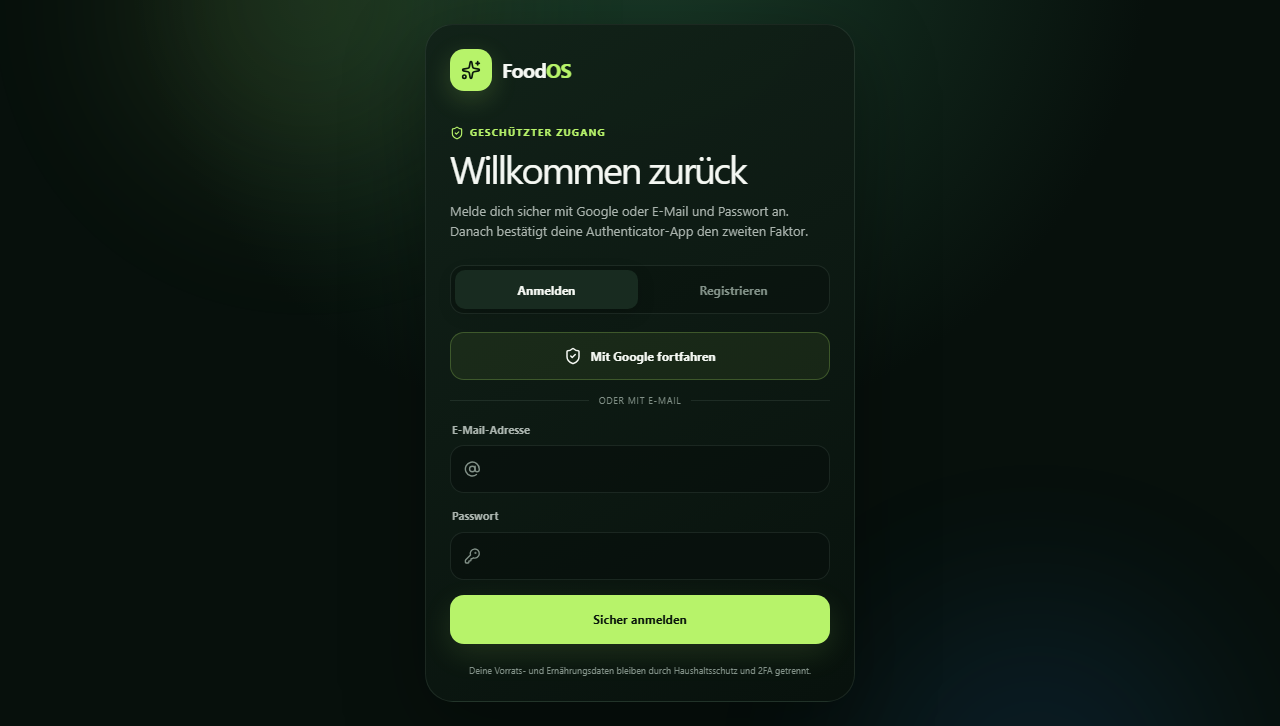
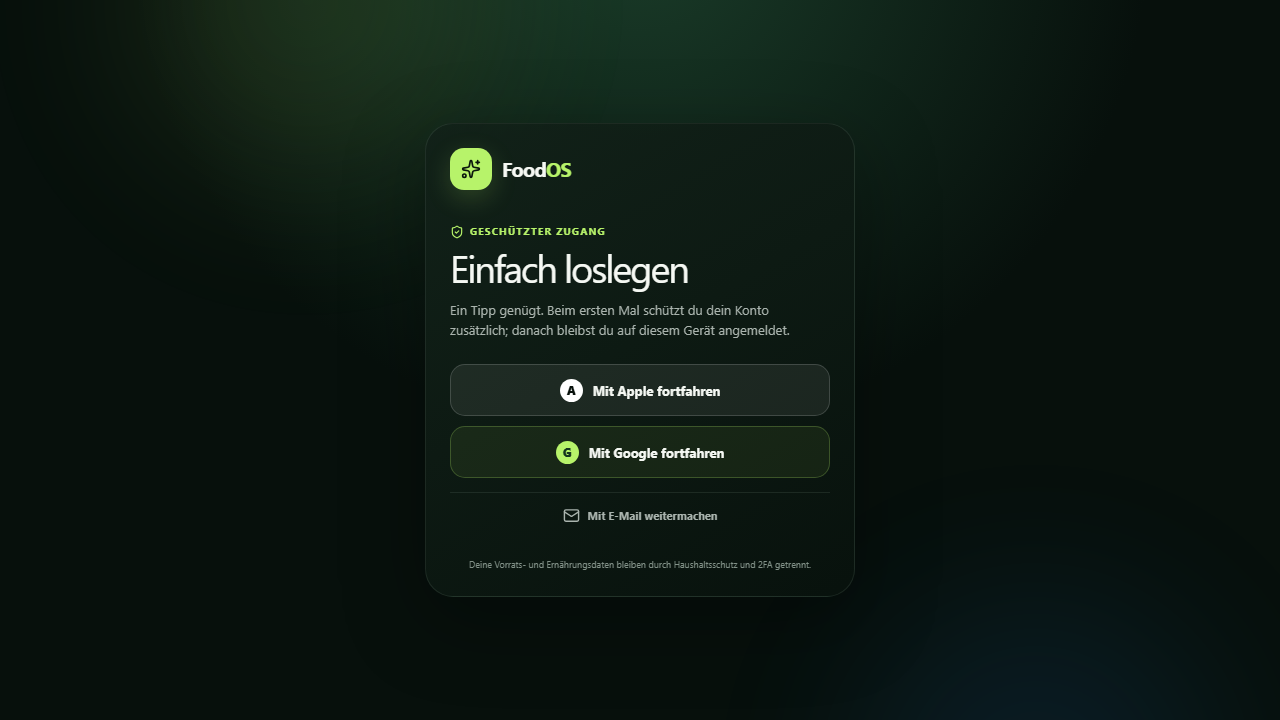
feat: simplify cross-device sign in

diff --git a/src/features/auth/sign-in-screen.tsx b/src/features/auth/sign-in-screen.tsx
@@ -1,7 +1,7 @@
 "use client";
 
 import { useState, type FormEvent } from "react";
-import { AtSign, KeyRound, LoaderCircle, ShieldCheck } from "lucide-react";
+import { AtSign, KeyRound, LoaderCircle, Mail, Play } from "lucide-react";
 import { useRouter } from "next/navigation";
 import { z } from "zod";
 import { oauthCallbackUrl } from "@/domain/auth-redirect";
@@ -14,16 +14,28 @@ const credentialsSchema = z.object({
 });
 
 type Mode = "login" | "register";
+type OAuthProvider = "apple" | "google";
 
 const authErrorMessages: Record<string, string> = {
   oauth: "Die Anmeldung beim Identitätsanbieter wurde abgebrochen oder abgelehnt. Versuche es erneut.",
   confirmation: "Der Anmeldelink ist ungültig oder abgelaufen. Starte die Anmeldung erneut."
 };
 
-export function SignInScreen({ authError, googleEnabled = false }: { authError?: string; googleEnabled?: boolean }) {
+export function SignInScreen({
+  authError,
+  appleEnabled = false,
+  demoEnabled = false,
+  googleEnabled = false
+}: {
+  authError?: string;
+  appleEnabled?: boolean;
+  demoEnabled?: boolean;
+  googleEnabled?: boolean;
+}) {
   const router = useRouter();
   const [mode, setMode] = useState<Mode>("login");
   const [busy, setBusy] = useState(false);
+  const [activeProvider, setActiveProvider] = useState<OAuthProvider | null>(null);
   const [error, setError] = useState<string | null>(authError ? authErrorMessages[authError] ?? "Die Anmeldung konnte nicht bestätigt werden." : null);
   const [notice, setNotice] = useState<string | null>(null);
 
@@ -64,56 +76,82 @@ export function SignInScreen({ authError, googleEnabled = false }: { authError?:
     router.refresh();
   }
 
-  async function signInWithGoogle() {
+  async function signInWithProvider(provider: OAuthProvider) {
     setBusy(true);
+    setActiveProvider(provider);
     setError(null);
     setNotice(null);
     const result = await getSupabaseBrowserClient().auth.signInWithOAuth({
-      provider: "google",
+      provider,
       options: {
         redirectTo: oauthCallbackUrl(window.location.origin),
-        scopes: "openid email profile"
+        scopes: provider === "google" ? "openid email profile" : "name email"
       }
     });
     if (result.error) {
       setBusy(false);
-      setError("Google-Anmeldung konnte nicht gestartet werden. Prüfe die Provider-Konfiguration oder verwende E-Mail und Passwort.");
+      setActiveProvider(null);
+      setError("Die schnelle Anmeldung konnte nicht gestartet werden. Versuche es erneut oder nutze E-Mail.");
     }
   }
+
+  const socialLoginEnabled = appleEnabled || googleEnabled;
+  const showDemoEntry = demoEnabled && !socialLoginEnabled;
+  const hasSimpleEntry = socialLoginEnabled || showDemoEntry;
 
   return (
     <AuthFrame
       eyebrow="Geschützter Zugang"
-      title={mode === "login" ? "Willkommen zurück" : "FoodOS einrichten"}
-      description="Melde dich sicher mit Google oder E-Mail und Passwort an. Danach bestätigt deine Authenticator-App den zweiten Faktor."
+      title="Einfach loslegen"
+      description={showDemoEntry
+        ? "Öffne die lokale Demo mit einem Tipp. Für ein persönliches Konto kannst du jederzeit E-Mail verwenden."
+        : "Ein Tipp genügt. Beim ersten Mal schützt du dein Konto zusätzlich; danach bleibst du auf diesem Gerät angemeldet."}
     >
-      <div className="auth-tabs" role="tablist" aria-label="Anmeldemodus">
-        <button role="tab" aria-selected={mode === "login"} onClick={() => setMode("login")}>Anmelden</button>
-        <button role="tab" aria-selected={mode === "register"} onClick={() => setMode("register")}>Registrieren</button>
+      <div className="oauth-stack" aria-label="Schnelle Anmeldung">
+        {showDemoEntry && (
+          <button className="oauth-button demo" type="button" onClick={() => router.push("/?demo=1")}>
+            <Play size={18} aria-hidden="true" /> FoodOS ausprobieren
+          </button>
+        )}
+        {appleEnabled && (
+          <button className="oauth-button apple" type="button" onClick={() => void signInWithProvider("apple")} disabled={busy}>
+            <span className="provider-mark" aria-hidden="true">A</span>
+            {activeProvider === "apple" ? "Apple wird geöffnet …" : "Mit Apple fortfahren"}
+          </button>
+        )}
+        {googleEnabled && (
+          <button className="oauth-button google" type="button" onClick={() => void signInWithProvider("google")} disabled={busy}>
+            <span className="provider-mark" aria-hidden="true">G</span>
+            {activeProvider === "google" ? "Google wird geöffnet …" : "Mit Google fortfahren"}
+          </button>
+        )}
       </div>
-      {googleEnabled && <>
-        <button className="oauth-button" type="button" onClick={() => void signInWithGoogle()} disabled={busy}>
-          <ShieldCheck size={18} /> Mit Google fortfahren
-        </button>
-        <div className="auth-divider"><span>oder mit E-Mail</span></div>
-      </>}
-      <form className="auth-form" onSubmit={submit}>
-        <label>
-          <span>E-Mail-Adresse</span>
-          <div><AtSign size={18} /><input name="email" type="email" autoComplete="email" inputMode="email" required /></div>
-        </label>
-        <label>
-          <span>Passwort</span>
-          <div><KeyRound size={18} /><input name="password" type="password" autoComplete={mode === "login" ? "current-password" : "new-password"} minLength={10} required /></div>
-          {mode === "register" && <small>Mindestens 10 Zeichen. Verwende ein einzigartiges Passwort.</small>}
-        </label>
-        {error && <p className="auth-message error" role="alert">{error}</p>}
-        {notice && <p className="auth-message success" role="status">{notice}</p>}
-        <button className="primary-button wide" disabled={busy}>
-          {busy && <LoaderCircle className="spin" size={17} />}
-          {busy ? "Bitte warten …" : mode === "login" ? "Sicher anmelden" : "Konto erstellen"}
-        </button>
-      </form>
+      {error && <p className="auth-message error auth-level-message" role="alert">{error}</p>}
+      {notice && <p className="auth-message success auth-level-message" role="status">{notice}</p>}
+      <details className="email-auth" open={!hasSimpleEntry}>
+        <summary><Mail size={17} /> Mit E-Mail weitermachen</summary>
+        <div className="email-auth-panel">
+          <div className="auth-tabs" role="tablist" aria-label="E-Mail-Anmeldemodus">
+            <button role="tab" aria-selected={mode === "login"} onClick={() => setMode("login")}>Anmelden</button>
+            <button role="tab" aria-selected={mode === "register"} onClick={() => setMode("register")}>Neu hier</button>
+          </div>
+          <form className="auth-form" onSubmit={submit}>
+            <label>
+              <span>E-Mail-Adresse</span>
+              <div><AtSign size={18} /><input name="email" type="email" autoComplete="email" inputMode="email" required /></div>
+            </label>
+            <label>
+              <span>Passwort</span>
+              <div><KeyRound size={18} /><input name="password" type="password" autoComplete={mode === "login" ? "current-password" : "new-password"} minLength={10} required /></div>
+              {mode === "register" && <small>Mindestens 10 Zeichen. Verwende ein einzigartiges Passwort.</small>}
+            </label>
+            <button className="primary-button wide" disabled={busy}>
+              {busy && <LoaderCircle className="spin" size={17} />}
+              {busy ? "Bitte warten …" : mode === "login" ? "Anmelden" : "Konto erstellen"}
+            </button>
+          </form>
+        </div>
+      </details>
     </AuthFrame>
   );
 }

diff --git a/e2e-auth/authenticated-core.spec.ts b/e2e-auth/authenticated-core.spec.ts
@@ -1,20 +1,30 @@
 import { createHmac } from "node:crypto";
 import { expect, test } from "@playwright/test";
 
-test("Google OAuth starts with PKCE and a same-origin callback", async ({ page }) => {
+test("Apple and Google OAuth start with PKCE and a same-origin callback", async ({ page }) => {
   await page.route("http://127.0.0.1:54321/auth/v1/authorize**", async (route) => {
     await route.fulfill({ status: 200, contentType: "text/plain", body: "OAuth request captured" });
   });
   await page.goto("/");
   await page.screenshot({ path: "docs/evidence/screenshots/auth-google-desktop.png", fullPage: true });
-  await page.getByRole("button", { name: "Mit Google fortfahren" }).click();
-  await page.waitForURL(/\/auth\/v1\/authorize/);
-  const authorizationUrl = new URL(page.url());
-  expect(authorizationUrl.searchParams.get("provider")).toBe("google");
-  expect(authorizationUrl.searchParams.get("redirect_to")).toBe("http://127.0.0.1:3101/auth/confirm?next=%2F");
-  expect(authorizationUrl.searchParams.get("code_challenge_method")).toBe("s256");
-  expect(authorizationUrl.searchParams.get("code_challenge")).toMatch(/^[A-Za-z0-9_-]{43,128}$/);
-  expect(authorizationUrl.searchParams.get("scopes")).toBe("openid email profile");
+  await expect(page.locator(".oauth-button")).toHaveCount(2);
+  await expect(page.getByRole("button", { name: "Mit Apple fortfahren" })).toBeVisible();
+  await expect(page.getByRole("button", { name: "Mit Google fortfahren" })).toBeVisible();
+
+  for (const provider of [
+    { name: "Apple", value: "apple", scopes: "name email" },
+    { name: "Google", value: "google", scopes: "openid email profile" }
+  ]) {
+    await page.getByRole("button", { name: `Mit ${provider.name} fortfahren` }).click();
+    await page.waitForURL(/\/auth\/v1\/authorize/);
+    const authorizationUrl = new URL(page.url());
+    expect(authorizationUrl.searchParams.get("provider")).toBe(provider.value);
+    expect(authorizationUrl.searchParams.get("redirect_to")).toBe("http://127.0.0.1:3101/auth/confirm?next=%2F");
+    expect(authorizationUrl.searchParams.get("code_challenge_method")).toBe("s256");
+    expect(authorizationUrl.searchParams.get("code_challenge")).toMatch(/^[A-Za-z0-9_-]{43,128}$/);
+    expect(authorizationUrl.searchParams.get("scopes")).toBe(provider.scopes);
+    await page.goto("/");
+  }
 
   const providerError = await page.request.get(
     "/auth/confirm?error=access_denied&error_description=provider-secret-detail",
@@ -24,6 +34,10 @@ test("Google OAuth starts with PKCE and a same-origin callback", async ({ page }
   const safeErrorLocation = new URL(providerError.headers().location);
   expect(`${safeErrorLocation.pathname}${safeErrorLocation.search}`).toBe("/?auth_error=oauth");
   expect(providerError.headers().location).not.toContain("provider-secret-detail");
+
+  await page.goto("/?demo=1");
+  await expect(page.getByRole("heading", { name: "Hey David" })).toBeVisible();
+  await expect(page.getByText("Preview-Modus · Beispieldaten werden nicht gespeichert", { exact: true })).toBeVisible();
 });
 
 function decodeBase32(secret: string): Buffer {
@@ -54,7 +68,8 @@ test("real local user must enroll TOTP before atomic household onboarding", asyn
   const deniedExport = await page.request.get("/api/account/export");
   expect(deniedExport.status()).toBe(401);
   expect(deniedExport.headers()["cache-control"]).toContain("no-store");
-  await page.getByRole("tab", { name: "Registrieren" }).click();
+  await page.getByText("Mit E-Mail weitermachen", { exact: true }).click();
+  await page.getByRole("tab", { name: "Neu hier" }).click();
   await page.getByLabel("E-Mail-Adresse").fill(email);
   await page.getByLabel("Passwort").fill(password);
   await page.getByRole("button", { name: "Konto erstellen" }).click();

diff --git a/src/app/globals.css b/src/app/globals.css
@@ -292,11 +292,23 @@ button:focus-visible, input:focus-visible, select:focus-visible, a:focus-visible
 .auth-message { margin: 0; border: 1px solid var(--line); border-radius: 13px; padding: 11px 12px; font-size: 11px; line-height: 1.45; }
 .auth-message.error { border-color: rgba(255,148,122,.24); color: #ffc0b0; background: rgba(255,148,122,.08); }
 .auth-message.success { border-color: rgba(183,243,106,.2); color: var(--lime); background: rgba(183,243,106,.07); }
-.oauth-button { width: 100%; min-height: 48px; border: 1px solid rgba(183,243,106,.24); border-radius: 14px; display: flex; align-items: center; justify-content: center; gap: 8px; color: var(--ink); background: rgba(183,243,106,.07); cursor: pointer; font-size: 12px; font-weight: 750; }
-.oauth-button:hover { border-color: rgba(183,243,106,.5); background: rgba(183,243,106,.11); }
+.oauth-stack { display: grid; gap: 10px; }
+.oauth-button { width: 100%; min-height: 52px; border: 1px solid rgba(255,255,255,.16); border-radius: 15px; display: flex; align-items: center; justify-content: center; gap: 10px; color: var(--ink); background: rgba(255,255,255,.07); cursor: pointer; font-size: 13px; font-weight: 780; transition: border-color .16s ease, background .16s ease, transform .16s ease; }
+.oauth-button:hover { border-color: rgba(255,255,255,.34); background: rgba(255,255,255,.11); transform: translateY(-1px); }
+.oauth-button.google { border-color: rgba(183,243,106,.24); background: rgba(183,243,106,.07); }
+.oauth-button.google:hover { border-color: rgba(183,243,106,.5); background: rgba(183,243,106,.11); }
+.oauth-button.demo { border-color: var(--lime); color: #0a160d; background: var(--lime); box-shadow: 0 10px 28px rgba(183,243,106,.14); }
+.oauth-button.demo:hover { border-color: #caff88; background: #caff88; }
 .oauth-button:disabled { opacity: .55; cursor: wait; }
-.auth-divider { display: flex; align-items: center; gap: 10px; margin: 14px 0; color: var(--muted); font-size: 9px; text-transform: uppercase; letter-spacing: .08em; }
-.auth-divider::before, .auth-divider::after { content: ""; flex: 1; height: 1px; background: var(--line); }
+.provider-mark { width: 23px; height: 23px; border-radius: 50%; display: grid; place-items: center; color: #07100b; background: #fff; font-size: 12px; font-weight: 900; }
+.oauth-button.google .provider-mark { color: #15351f; background: var(--lime); }
+.auth-level-message { margin-top: 12px; }
+.email-auth { margin-top: 14px; border-top: 1px solid var(--line); }
+.email-auth summary { min-height: 45px; display: flex; align-items: center; justify-content: center; gap: 8px; color: var(--muted-2); cursor: pointer; font-size: 11px; font-weight: 700; list-style: none; }
+.email-auth summary::-webkit-details-marker { display: none; }
+.email-auth summary:hover { color: var(--ink); }
+.email-auth summary:focus-visible { border-radius: 10px; outline: 3px solid rgba(183,243,106,.35); outline-offset: 2px; }
+.email-auth-panel { padding-top: 4px; }
 .auth-privacy { margin: 20px 0 0; color: var(--muted); font-size: 9px; line-height: 1.5; text-align: center; }
 .mfa-intro { border: 1px solid var(--line); border-radius: 20px; padding: 18px; text-align: center; background: rgba(7,16,12,.48); }
 .mfa-intro > span { width: 54px; height: 54px; margin: 0 auto 13px; border-radius: 17px; display: grid; place-items: center; color: var(--lime); background: rgba(183,243,106,.09); }

diff --git a/src/app/page.tsx b/src/app/page.tsx
@@ -10,16 +10,21 @@ import { loadFoodOsSnapshot } from "@/infrastructure/foodos-repository";
 // Authentication depends on request cookies and runtime deployment configuration.
 export const dynamic = "force-dynamic";
 
-export default async function Home({ searchParams }: { searchParams: Promise<{ auth_error?: string | string[] }> }) {
+export default async function Home({ searchParams }: { searchParams: Promise<{ auth_error?: string | string[]; demo?: string | string[] }> }) {
+  const params = await searchParams;
+  const demoEnabled = process.env.NODE_ENV !== "production" || process.env.NEXT_PUBLIC_DEMO_MODE_ENABLED === "true";
+  if (demoEnabled && params.demo === "1") return <FoodOsApp preview />;
   if (!isSupabaseConfigured()) return <FoodOsApp preview />;
 
   const supabase = await createSupabaseServerClient();
   const { data } = await supabase.auth.getClaims();
   if (!data?.claims) {
-    const authError = (await searchParams).auth_error;
+    const authError = params.auth_error;
     return (
       <SignInScreen
         authError={typeof authError === "string" ? authError : undefined}
+        appleEnabled={process.env.NEXT_PUBLIC_OAUTH_APPLE_ENABLED === "true"}
+        demoEnabled={demoEnabled}
         googleEnabled={process.env.NEXT_PUBLIC_OAUTH_GOOGLE_ENABLED === "true"}
       />
     );

diff --git a/playwright.auth.config.ts b/playwright.auth.config.ts
@@ -21,6 +21,8 @@ export default defineConfig({
     env: {
       NEXT_PUBLIC_SUPABASE_URL: supabaseUrl,
       NEXT_PUBLIC_SUPABASE_PUBLISHABLE_KEY: supabaseKey,
+      NEXT_PUBLIC_DEMO_MODE_ENABLED: "true",
+      NEXT_PUBLIC_OAUTH_APPLE_ENABLED: "true",
       NEXT_PUBLIC_OAUTH_GOOGLE_ENABLED: "true",
       HOSTNAME: "127.0.0.1",
       PORT: "3101"

diff --git a/docs/evidence/OAUTH_DEPLOYMENT_READINESS_2026-08-04.md b/docs/evidence/OAUTH_DEPLOYMENT_READINESS_2026-08-04.md
@@ -1,6 +1,6 @@
 # OAuth and deployment readiness — 2026-08-04
 
-Scope: secure Google OAuth 2.0/OpenID Connect entry through Supabase Auth while
+Scope: simple Apple/Google OAuth 2.0/OpenID Connect entry through Supabase Auth while
 preserving the existing mandatory TOTP/AAL2 boundary before private household data.
 The repository branch is `agent/foodos-mvp`; the local runner is Node 25.2.1 while the
 project and CI pin Node 22.
@@ -12,12 +12,13 @@ project and CI pin Node 22.
 | `npm run test:coverage` | `PASS` | 93.13% statements, 89.04% branches, 98.03% functions and 97.87% lines. |
 | `supabase test db` | `PASS` | 58/58 pgTAP tests passed against the local Postgres/Supabase stack. |
 | `npm run test:e2e` | `PASS` | 6/6 Pixel 7 and Desktop Chrome preview tests passed, including keyboard-addressable navigation, overflow and serious/critical axe smoke. |
-| `npm run test:e2e:auth` | `PASS` | 2/2: Google authorize request contains PKCE/S256, minimal OIDC scopes and an exact same-origin callback; external redirect candidates and provider details are sanitized. A real local user still must enroll and verify TOTP before AAL2 onboarding and private data access. |
+| `npm run test:e2e:auth` | `PASS` | 2/2: Apple and Google authorize requests contain PKCE/S256, provider-minimal scopes and an exact same-origin callback; external redirect candidates and provider details are sanitized. The explicit fictitious demo is isolated, while a real local user still must enroll and verify TOTP before AAL2 onboarding and private data access. |
+| Local one-click demo | `PASS` | The running local app returned HTTP 200, exposed one primary `FoodOS ausprobieren` action and served `/?demo=1` with fictitious preview data only. Production requires an explicit flag. |
 | `npm audit --audit-level=high` | `PASS` | 0 vulnerabilities. |
 | OAuth login visual | `REVIEWED_LOCAL` | `screenshots/auth-google-desktop.png` contains no credentials or household data. |
-| Managed Supabase project and Google provider | `BLOCKED` | The local CLI has no managed-project access token. No Google client secret was requested, stored in Vercel or written to the repository. |
-| Vercel production URL and remote authenticated smoke | `NOT_RUN` | A Vercel account is available, but deployment is intentionally not represented as production-ready until the managed Supabase URL/key, exact production callback and Google provider are configured. |
+| Managed Supabase project and Apple/Google providers | `BLOCKED` | The local CLI has no managed-project access token. No provider secret was requested, stored in Vercel or written to the repository. |
+| Vercel production URL and remote authenticated smoke | `NOT_RUN` | A Vercel account is available, but deployment is intentionally not represented as production-ready until the managed Supabase URL/key, exact production callback and enabled providers are configured. |
 
-This evidence does not claim a successful remote Google login, production deployment,
+This evidence does not claim a successful remote Apple/Google login, production deployment,
 uptime, recovery, penetration test or legal/commercial release. Those require the exact
 managed environment and a post-deployment authenticated smoke test.

diff --git a/README.md b/README.md
@@ -128,11 +128,14 @@ Mengen-/Logwirkung.
    Variablen aus `.env.example` setzen.
 3. Production-Deployment ausführen.
 
-### Google OAuth 2.0 / OpenID Connect
+### Apple und Google OAuth 2.0 / OpenID Connect
 
-FoodOS startet Google OAuth über Supabase Auth mit PKCE und fordert nur `openid email
-profile` an. OAuth liefert zunächst AAL1; bevor private Haushaltsdaten geladen werden,
-muss weiterhin der bestehende TOTP-Faktor AAL2 herstellen.
+FoodOS stellt Apple und Google als primäre Ein-Klick-Anmeldung vor die eingeklappte
+E-Mail-Alternative. Beide laufen über Supabase Auth mit PKCE. Google fordert nur
+`openid email profile`, Apple nur `name email` an. OAuth liefert zunächst AAL1; bevor
+private Haushaltsdaten geladen werden, muss weiterhin TOTP AAL2 herstellen. Die
+Supabase-Sitzung bleibt danach auf dem Gerät erhalten, bis sie abgemeldet wird oder
+abläuft.
 
 1. In Google Cloud einen Web-OAuth-Client anlegen. Als autorisierte Redirect-URI
    ausschließlich die von Supabase angezeigte Provider-Callback-URL
@@ -144,6 +147,18 @@ muss weiterhin der bestehende TOTP-Faktor AAL2 herstellen.
    erlauben. Keine Wildcards für Production verwenden.
 4. Erst danach in Vercel `NEXT_PUBLIC_OAUTH_GOOGLE_ENABLED=true` setzen. Preview-
    Deployments bleiben ohne eigene exakt freigegebene Callback-URL bei `false`.
+
+Für Apple wird zusätzlich ein Apple-Developer-Konto mit App ID, Services ID und Sign-in-
+with-Apple-Key benötigt. Die Werte werden ausschließlich unter **Authentication →
+Providers → Apple** hinterlegt; danach kann `NEXT_PUBLIC_OAUTH_APPLE_ENABLED=true`
+gesetzt werden. Apples OAuth-Secret muss spätestens alle sechs Monate rotiert werden;
+Rotation, Verantwortlicher und Ablaufwarnung sind vor Production festzulegen.
+
+Im lokalen Entwicklungsbetrieb erscheint stattdessen automatisch **FoodOS
+ausprobieren**. Dieser Ein-Klick-Weg öffnet ausschließlich die vorhandene Demo mit
+fiktiven Daten und liest keine privaten Supabase-Tabellen. In Production ist er
+standardmäßig aus und muss mit `NEXT_PUBLIC_DEMO_MODE_ENABLED=true` bewusst aktiviert
+werden.
 
 Der Callback akzeptiert nur lokale absolute Pfade als `next`; protokollrelative,
 Backslash- und externe Ziele werden auf `/` reduziert. Provider-Fehler werden ohne

diff --git a/docs/TRACEABILITY_MATRIX.md b/docs/TRACEABILITY_MATRIX.md
@@ -15,7 +15,7 @@ converted to an evidence-backed state before the technical audit can close.
 | Requirement / gate | Flow / risk | Status | Implementation evidence | Test / CI evidence and remaining gap |
 |---|---|---|---|---|
 | Locked install, lint, types, unit tests and production build | Stage 0 | `CI_VERIFIED` | `package.json`, `.nvmrc`, `.github/workflows/ci.yml` | Run 30766373087 passed all three Node-22/Supabase/browser jobs at `ff74f42`; the current offline slice passes local verify with 37/37 tests and a production build on Node 25.2.1, pending its new CI artifact. |
-| Email auth or Google OAuth/OIDC with PKCE, SSR session refresh and TOTP AAL2 gate | F01 / C0 | `TESTED` | `src/features/auth/`, `src/domain/auth-redirect.ts`, `src/lib/supabase/`, `src/proxy.ts`, migration `0002` | Local browser E2E proves Google PKCE/S256, exact same-origin callback, sanitized provider errors and the real email/TOTP onboarding path (2/2); recovery codes, factor replacement and all-device session revocation remain `NOT_IMPLEMENTED`. |
+| Collapsed email auth or Apple/Google OAuth/OIDC with PKCE, SSR session refresh and TOTP AAL2 gate | F01 / C0 | `TESTED` | `src/features/auth/`, `src/domain/auth-redirect.ts`, `src/lib/supabase/`, `src/proxy.ts`, migration `0002` | Local browser E2E proves Apple and Google PKCE/S256, minimal scopes, exact same-origin callback, sanitized provider errors and the real email/TOTP onboarding path; recovery codes, factor replacement and all-device session revocation remain `NOT_IMPLEMENTED`. |
 | Transactional household onboarding | F01 / C1 | `TESTED` | migration `0003`, `src/features/auth/onboarding-screen.tsx` | pgTAP and real local Auth/TOTP E2E passed. |
 | AAL1 denial and household isolation | F01 / C0 | `TESTED` | migrations `0001`–`0005` | `supabase/tests/0001_mvp_security_and_transactions.sql` proves AAL1 denial and a second unrelated user; removed-member matrix is not yet covered. |
 | Barcode/GS1/manual product capture without invented date | F02 / C0 | `TESTED` | `src/domain/gs1.ts`, `src/components/scan-view.tsx`, product API | Unit/property, preview E2E and authenticated product lookup→batch browser E2E pass; the browser test also caught and fixed null normalization for “Kein Datum”. |

diff --git a/docs/evidence/screenshots/README.md b/docs/evidence/screenshots/README.md
@@ -8,5 +8,6 @@ They are visual review aids, not production RUM, usability-study, native-device 
 deployment evidence.
 
 `auth-google-desktop.png` is produced by the local Supabase Auth E2E before any
-credentials are entered. It documents the Google OAuth option and contains no user or
-household data; it is not evidence that a remote Google provider is configured.
+credentials are entered. The legacy filename now documents the Apple and Google
+one-click options and contains no user or household data; it is not evidence that either
+remote provider is configured.
